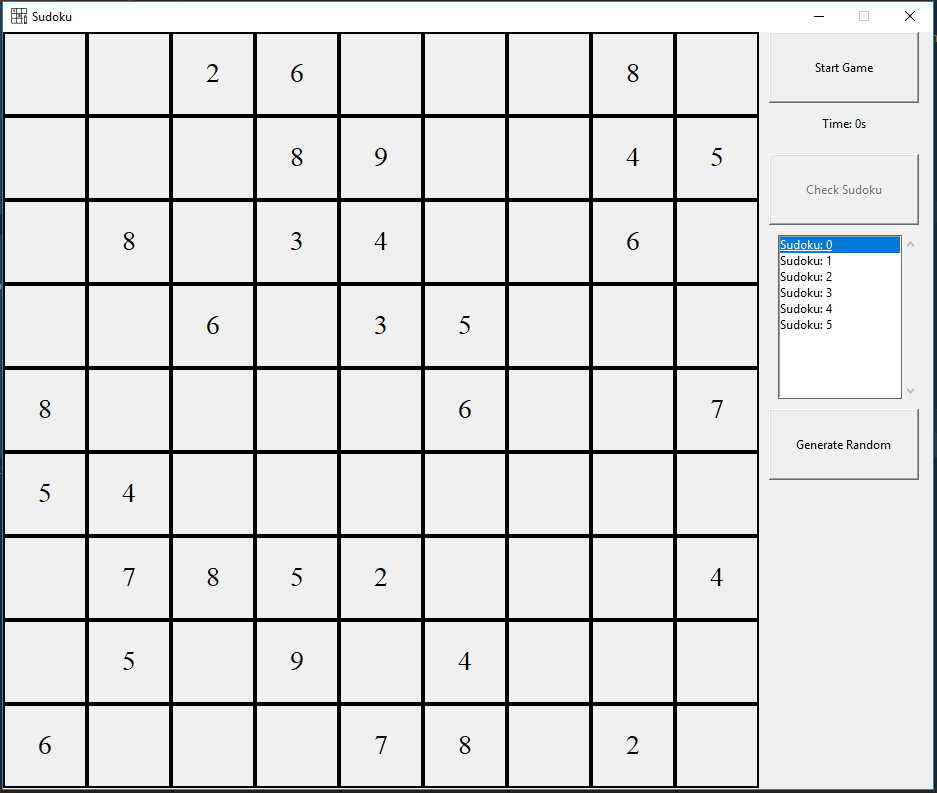
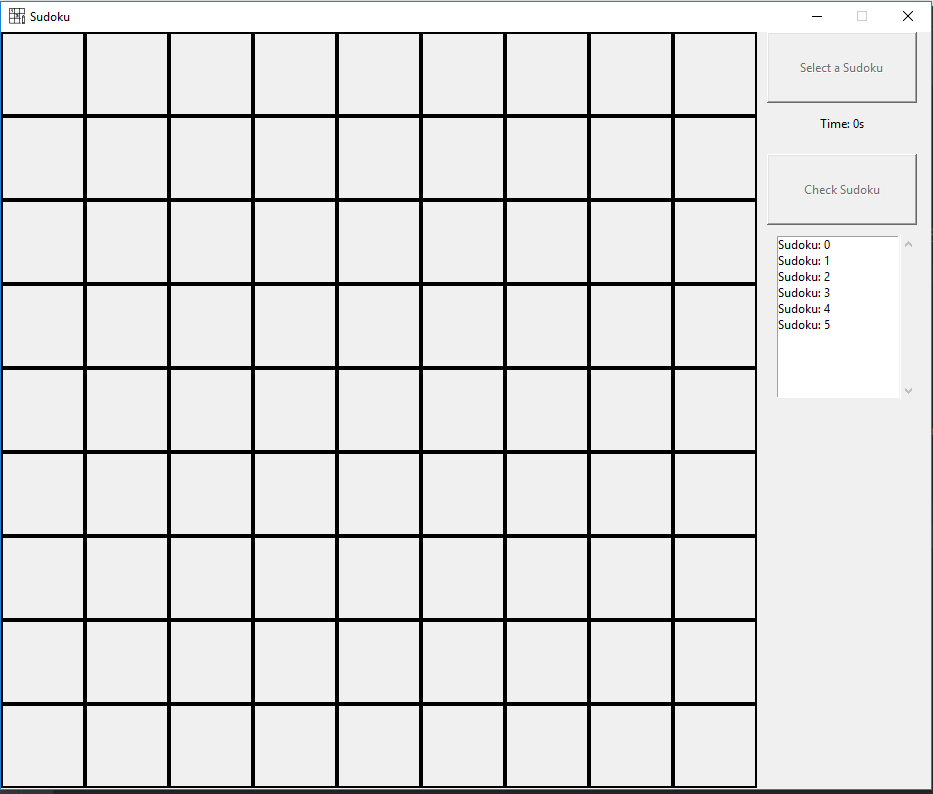
8/30/2018

diff --git a/sudoku/__main__.py b/sudoku/__main__.py
@@ -48,8 +48,6 @@ class App:
         self.checkbutton = Button(self.right, text="Check Sudoku", state=DISABLED, width=20, height=4)
         self.checkbutton.grid(row=2, column=0, pady=10)
 
-        self.randomgeneratorbutton = Button(self.right, text="Generate Random", width=20, height=4)
-        self.randomgeneratorbutton.grid(row=4, column=0, pady=10)
         # sudoku list viewer
 
         self.listsudoku = ttk.Frame(self.right)
